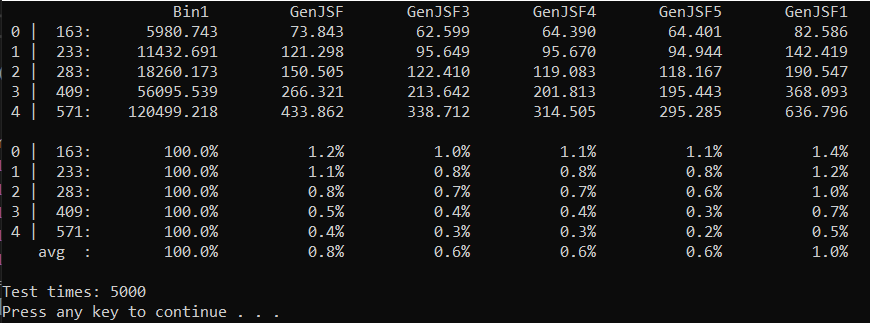
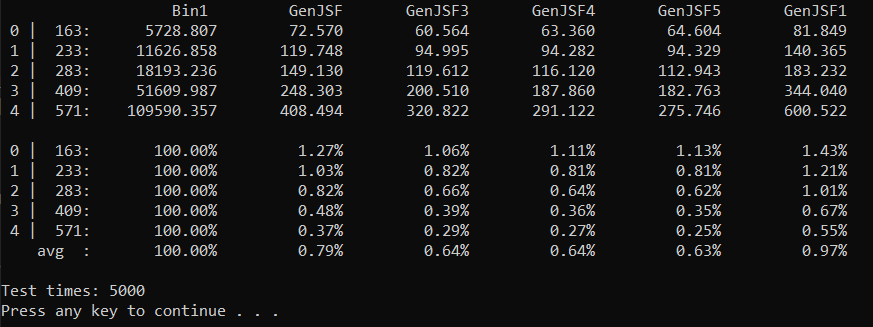
runtime genJSF/dJSF

diff --git a/Paper/test_dJSF.cpp b/Paper/test_dJSF.cpp
@@ -151,10 +151,10 @@ void printcompares_GendJSFs(Result res[NUM_OF_P + 1], int *m)
 	}
 	cout << endl;
 	for (int i = 0; i < NUM_OF_P; i++) {
-		printf("%2d | %4d: %12.1f%% %12.1f%% %12.1f%% %12.1f%% %12.1f%% %12.1f%%\n",
+		printf("%2d | %4d: %12.2f%% %12.2f%% %12.2f%% %12.2f%% %12.2f%% %12.2f%%\n",
 			i, m[i], res[i].p[0], res[i].p[1], res[i].p[2], res[i].p[3], res[i].p[4], res[i].p[lib]);
 	}
-	printf("    avg  : %12.1f%% %12.1f%% %12.1f%% %12.1f%% %12.1f%% %12.1f%%\n",
+	printf("    avg  : %12.2f%% %12.2f%% %12.2f%% %12.2f%% %12.2f%% %12.2f%%\n",
 		res[NUM_OF_P].p[0], res[NUM_OF_P].p[1], res[NUM_OF_P].p[2], res[NUM_OF_P].p[3], res[NUM_OF_P].p[4], res[NUM_OF_P].p[lib]);
 	cout << endl;
 	cout << "Test times: " << TESTJSFs << endl;
